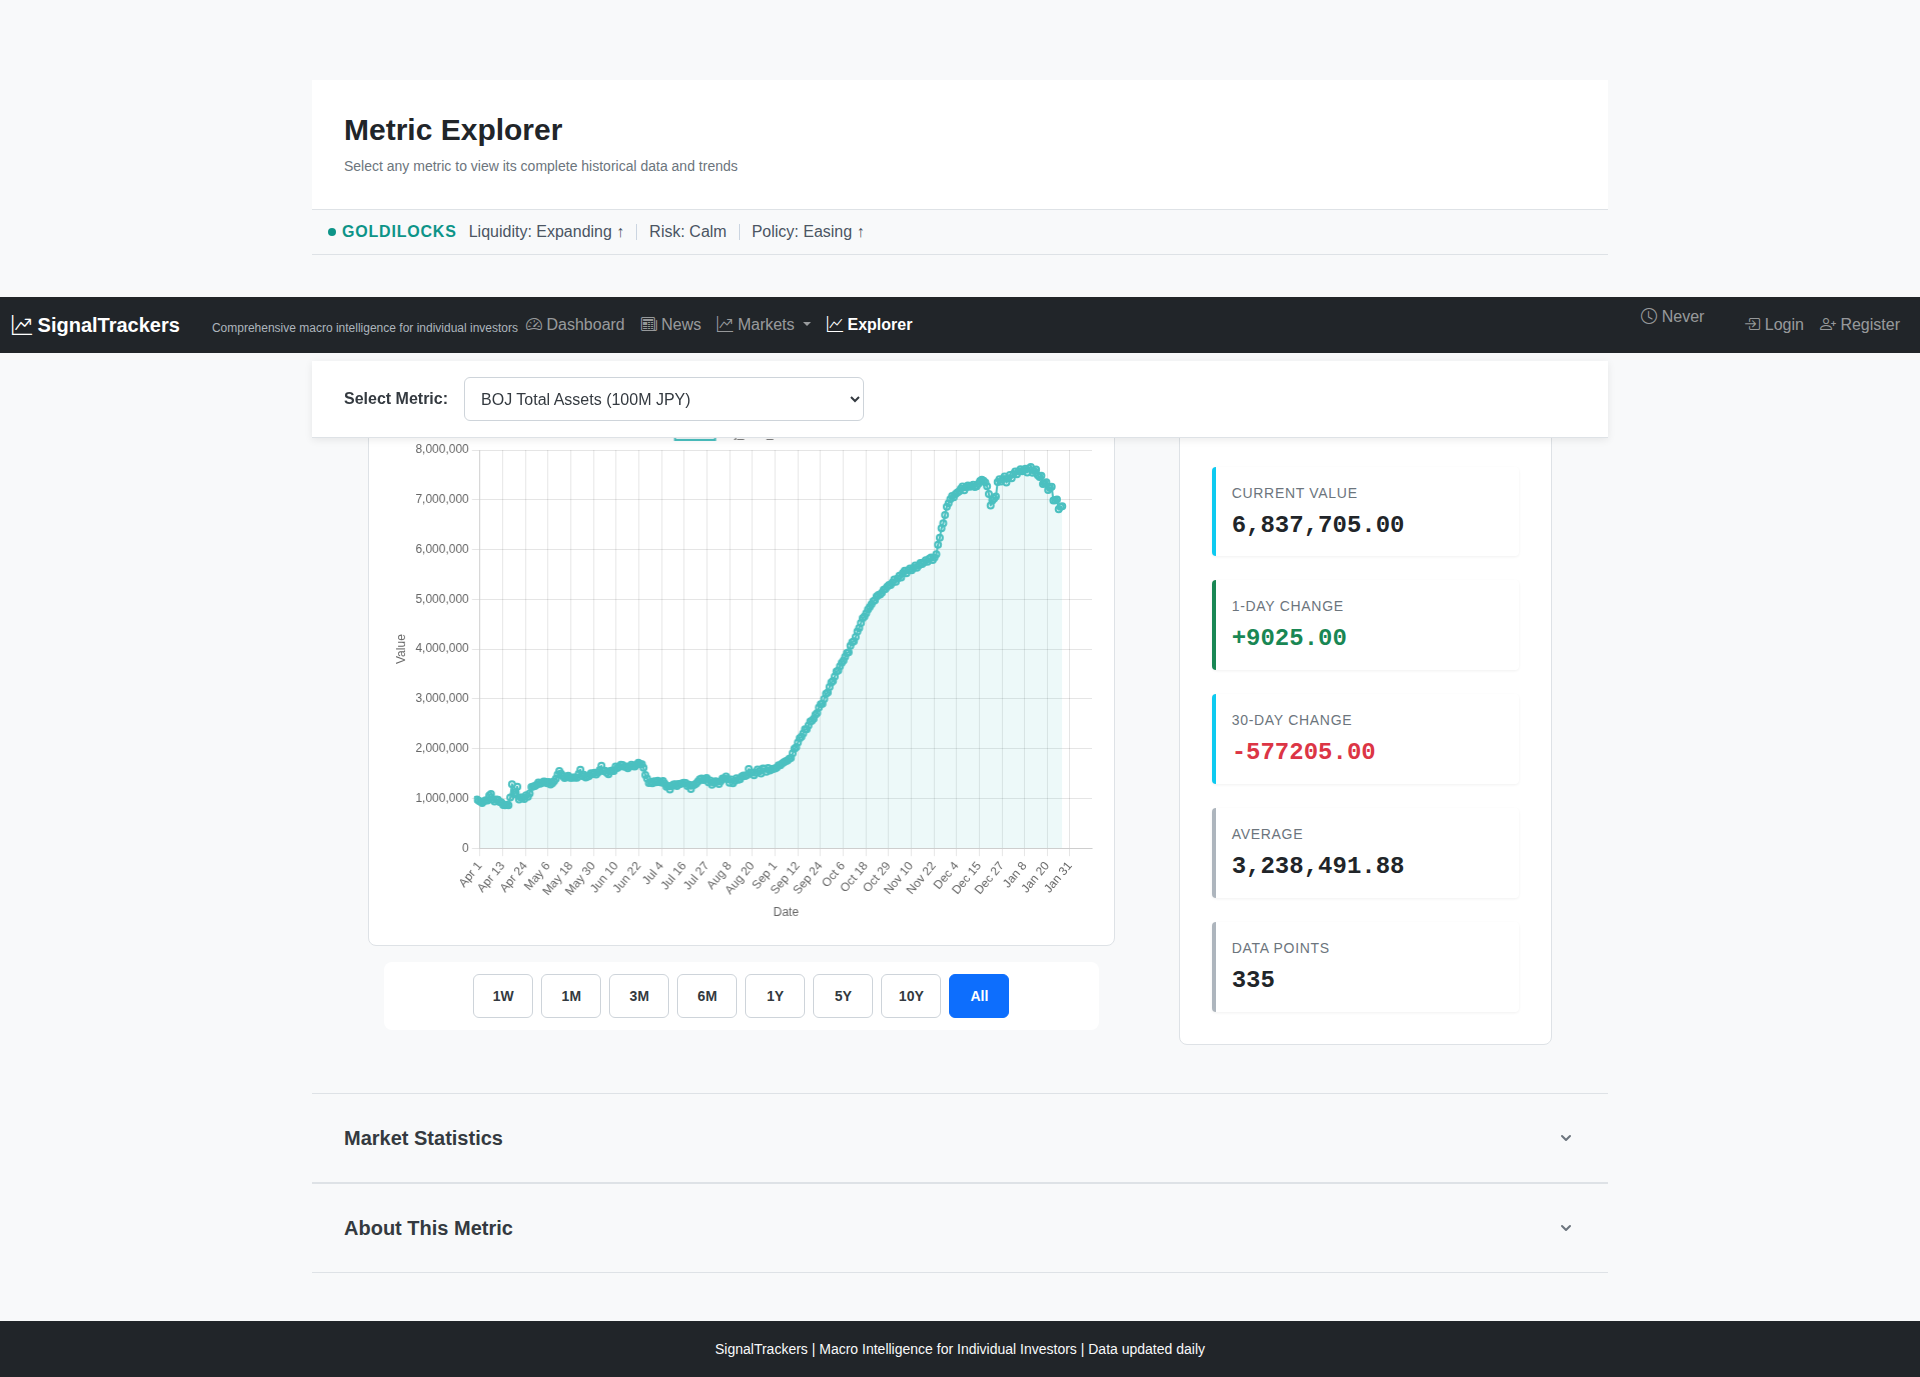
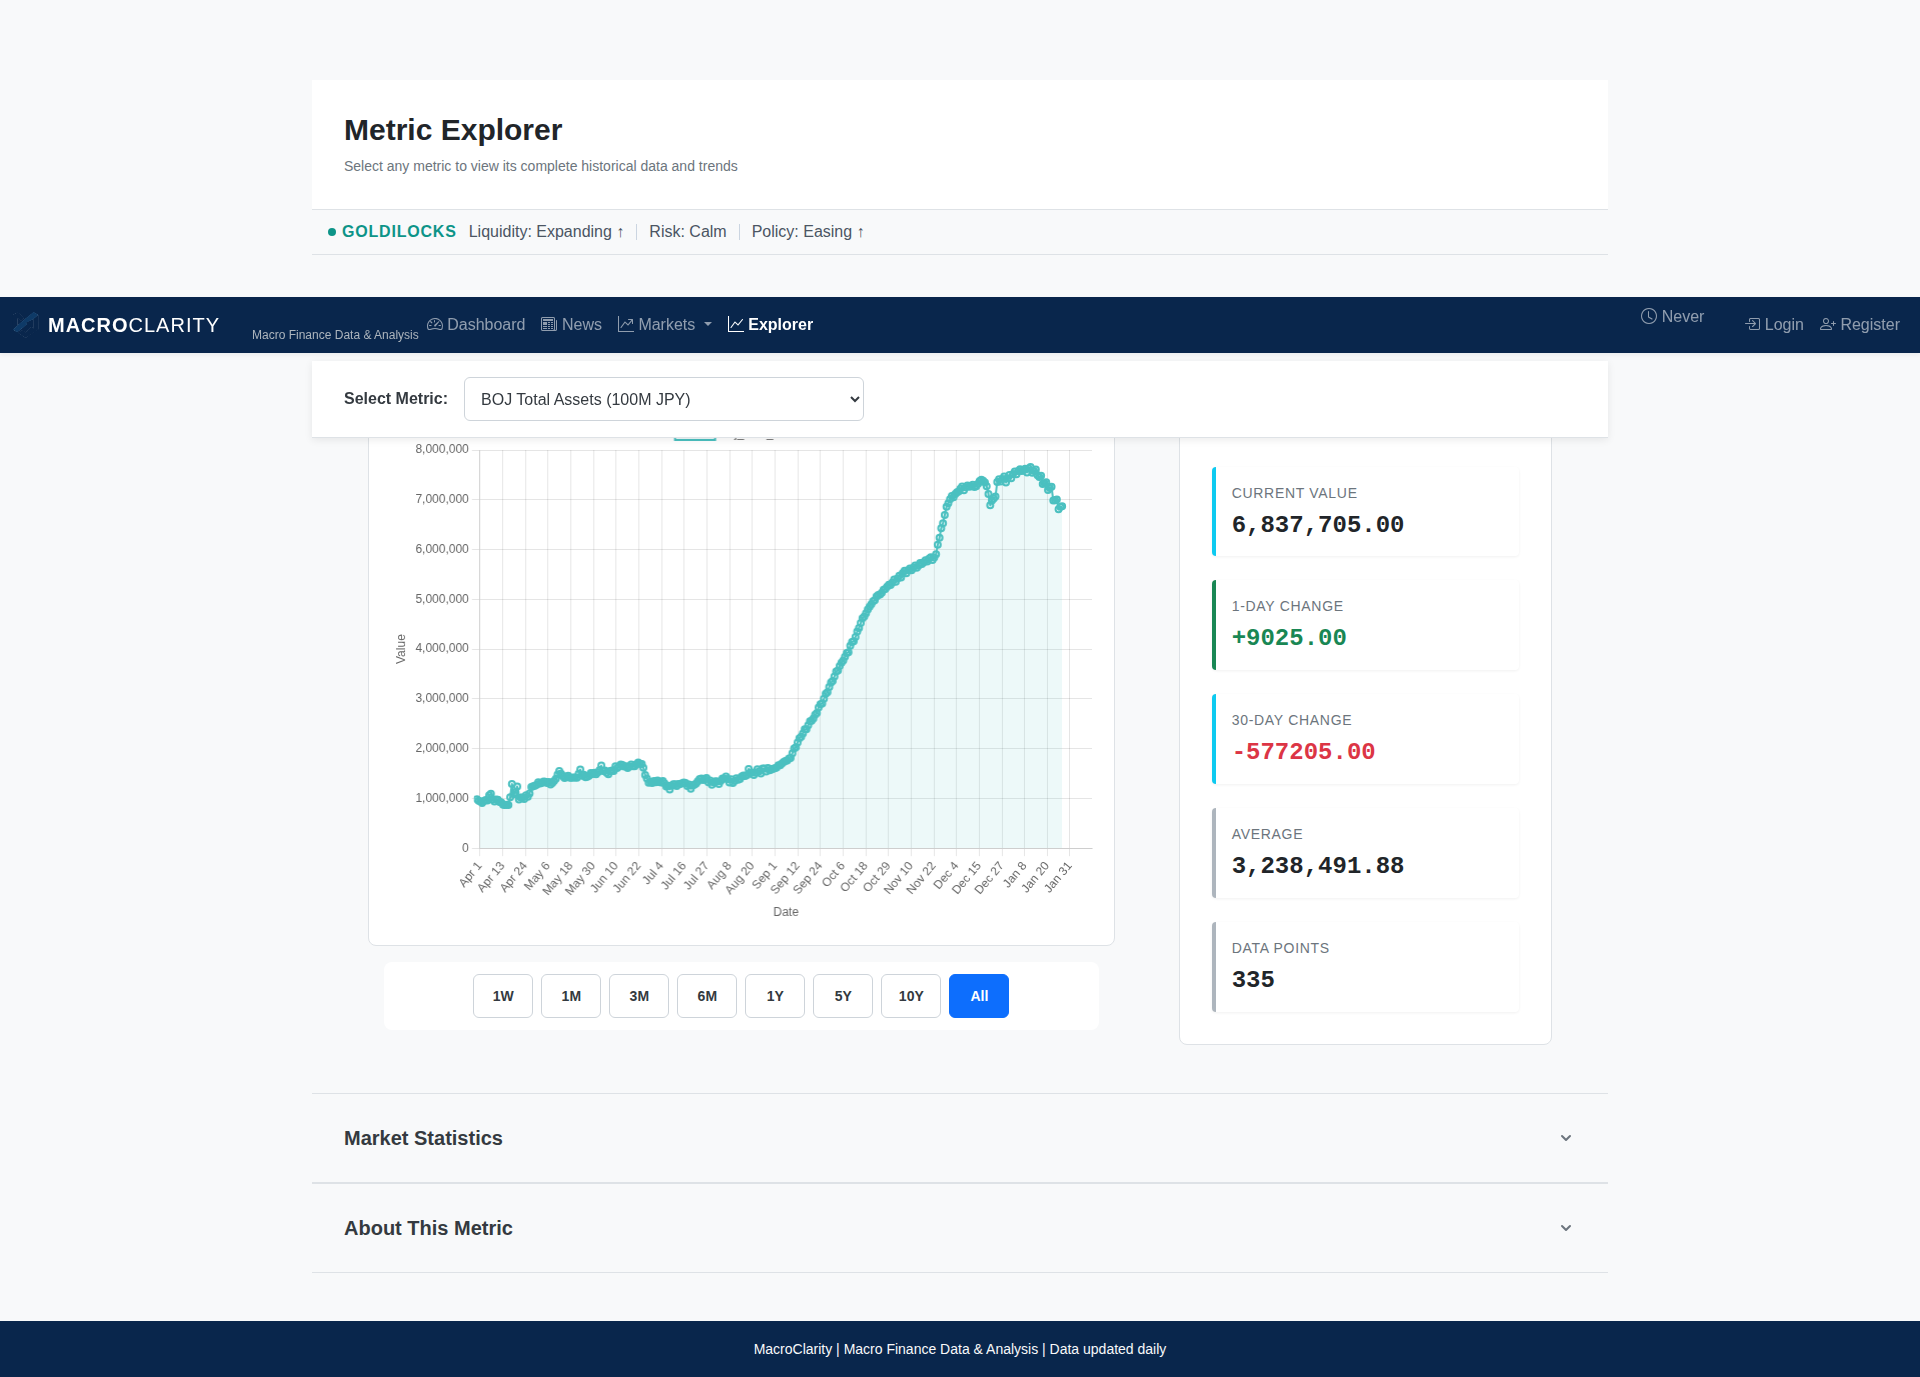
Implement navbar & footer MacroClarity rebrand
- Replace Bootstrap icon + "SignalTrackers" with MC logo SVG + "MACROCLARITY" weight-split text
- Add mobile variant: logo icon only (24px), desktop: logo (28px) + brand text
- Update navbar background from bg-dark to --brand-navy-dark (#09264c)
- Add navy-tinted shadow (0 2px 4px rgba(11, 28, 48, 0.06))
- Update tagline to "Macro Finance Data & Analysis"
- Update footer background and text to MacroClarity brand
- Update default page title to "MacroClarity - Macro Finance Data & Analysis"

Implements #445 per design spec.

Changed region(s): [[0.0, 0.9368, 1.0, 1.0], [0.0, 0.2186, 1.0, 0.281]]

diff --git a/signaltrackers/templates/base.html b/signaltrackers/templates/base.html
@@ -15,7 +15,7 @@
     <meta property="og:description" content="Daily macro intelligence briefings for individual investors. Track credit, equities, rates, safe havens, crypto, and currency markets in one dashboard.">
     <meta property="og:image" content="{{ request.url_root.rstrip('/') }}{{ url_for('static', filename='img/og-image.png') }}">
     <meta property="og:type" content="website">
-    <title>{% block title %}SignalTrackers - Macro Intelligence Platform{% endblock %}</title>
+    <title>{% block title %}MacroClarity - Macro Finance Data & Analysis{% endblock %}</title>
     <link rel="preconnect" href="https://fonts.googleapis.com">
     <link rel="preconnect" href="https://fonts.gstatic.com" crossorigin>
     <link href="https://fonts.googleapis.com/css2?family=Inter:wght@400;500;600;700&family=Noto+Serif:wght@700&display=swap" rel="stylesheet">
@@ -37,14 +37,16 @@
 </head>
 <body>
     <!-- Navigation -->
-    <nav class="navbar navbar-expand-lg navbar-dark bg-dark">
+    <nav class="navbar navbar-expand-lg navbar-dark navbar-brand-navy">
         <div class="container-fluid">
             <div class="navbar-brand-container">
                 <a class="navbar-brand" href="/">
-                    <i class="bi bi-graph-up-arrow"></i> SignalTrackers
+                    <img src="{{ url_for('static', filename='img/macroclarity-logo.svg') }}" alt="MacroClarity" class="navbar-logo d-none d-lg-inline-block" width="28" height="28">
+                    <img src="{{ url_for('static', filename='img/macroclarity-logo.svg') }}" alt="MacroClarity" class="navbar-logo d-inline-block d-lg-none" width="24" height="24">
+                    <span class="navbar-brand-text d-none d-lg-inline"><span class="navbar-brand-bold">MACRO</span><span class="navbar-brand-light">CLARITY</span></span>
                 </a>
                 <span class="navbar-tagline d-none d-md-inline">
-                    Comprehensive macro intelligence for individual investors
+                    Macro Finance Data &amp; Analysis
                 </span>
             </div>
             <div class="collapse navbar-collapse" id="navbarNav">
@@ -331,9 +333,9 @@
     </div>
 
     <!-- Footer -->
-    <footer class="bg-dark text-light py-3 mt-5">
+    <footer class="footer-brand-navy text-light py-3 mt-5">
         <div class="container text-center">
-            <small>SignalTrackers | Macro Intelligence for Individual Investors | Data updated daily</small>
+            <small>MacroClarity | Macro Finance Data &amp; Analysis | Data updated daily</small>
         </div>
     </footer>
 

diff --git a/signaltrackers/static/css/dashboard.css b/signaltrackers/static/css/dashboard.css
@@ -131,14 +131,37 @@ canvas {
     z-index: 1030; /* Bootstrap navbar z-index; quick-nav strip is 100 */
 }
 
+.navbar-brand-navy {
+    background-color: var(--brand-navy-dark);
+    box-shadow: 0 2px 4px rgba(11, 28, 48, 0.06);
+}
+
 .navbar-brand-container {
     display: flex;
     flex-direction: column;
 }
 
 .navbar-brand {
-    font-weight: bold;
     font-size: 1.25rem;
+    display: flex;
+    align-items: center;
+    gap: 0.5rem;
+}
+
+.navbar-logo {
+    vertical-align: middle;
+}
+
+.navbar-brand-text {
+    letter-spacing: 0.05em;
+}
+
+.navbar-brand-bold {
+    font-weight: 700;
+}
+
+.navbar-brand-light {
+    font-weight: 400;
 }
 
 .navbar-tagline {
@@ -157,6 +180,11 @@ canvas {
     .navbar-tagline {
         margin-top: 0;
     }
+}
+
+/* Footer */
+.footer-brand-navy {
+    background-color: var(--brand-navy-dark);
 }
 
 .nav-link {
